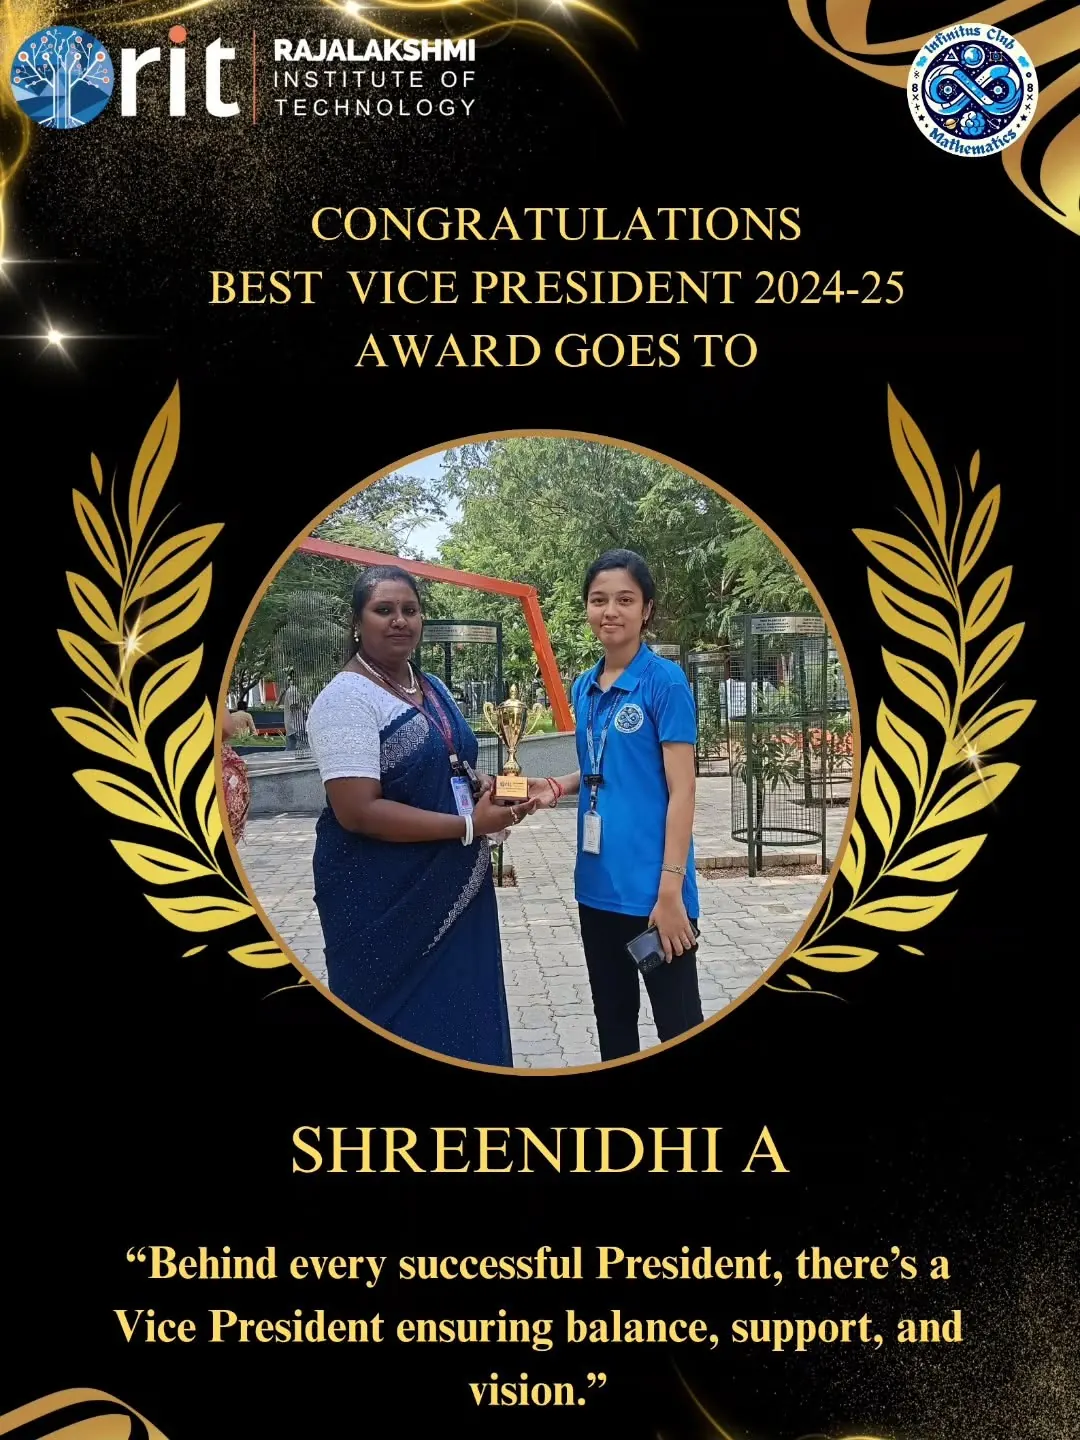
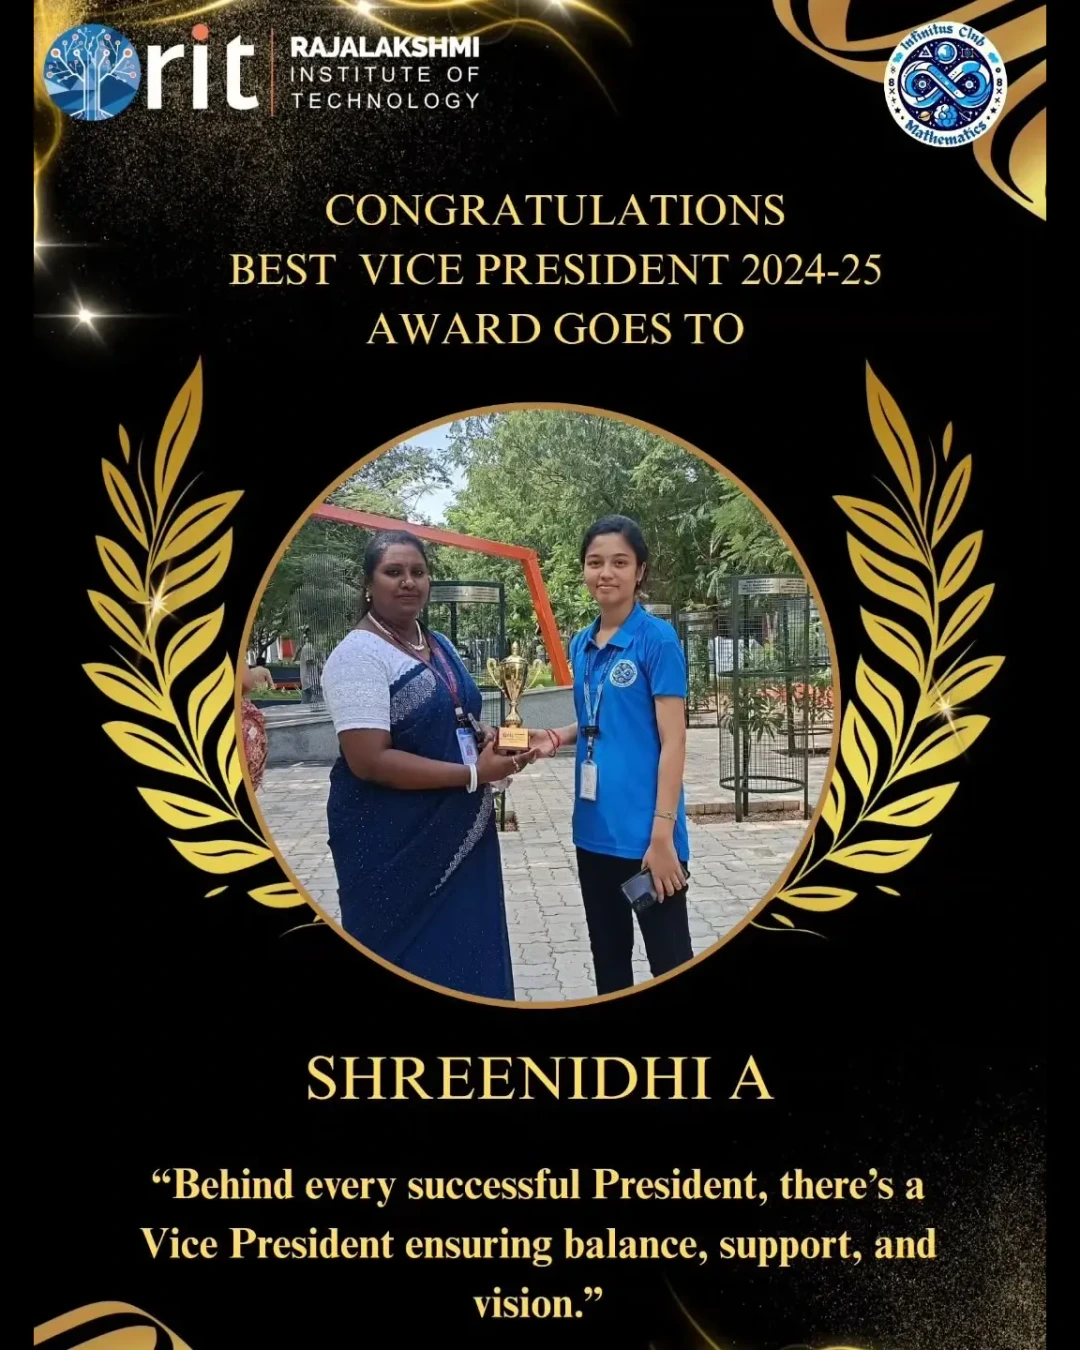
feat(gallery): perfectly frame posters, remove overlapping badges, and expand historical archive to 12 posts

diff --git a/lib/instagram.js b/lib/instagram.js
@@ -1,8 +1,8 @@
 /**
  * Curated Instagram posts for the "From Instagram" feed on the website.
  * Self-hosted, optimized assets matching @infinitus_club.rit posts.
- * Phase A: Curated static feed (no tracking scripts, no iframes, fast & private).
- * Phase B: Optional server-side Graph API fallback (documented in docs/INSTAGRAM.md).
+ * Spanning 2023–2026 across competitions, flagship summits, workshops, honors, and guest lectures.
+ * Every image is normalized to exact 4:5 aspect ratio (1080×1350 or 864×1080) for flawless frame alignment.
  */
 
 export const INSTAGRAM_POSTS = [
@@ -10,7 +10,7 @@ export const INSTAGRAM_POSTS = [
     id: 'post-shinka',
     image: '/gallery/shinka-recap.webp',
     width: 1080,
-    height: 1080,
+    height: 1350,
     caption: 'SHINKA — Strikers 2026: Strategy, speed, and analytical intuition pushed to the limits. A celebration of competitive mathematical problem solving.',
     date: 'Aug 2026',
     permalink: 'https://www.instagram.com/p/Dba4vhGzc9k/',
@@ -40,30 +40,90 @@ export const INSTAGRAM_POSTS = [
     id: 'post-inauguration',
     image: '/gallery/inauguration.webp',
     width: 1080,
-    height: 1349,
+    height: 1350,
     caption: 'Official Club Inauguration Ceremony — Welcoming mathematics enthusiasts, faculty coordinators, and new student leaders for the academic year.',
     date: 'Aug 2025',
     permalink: 'https://www.instagram.com/p/DM0NtN8z3fx/',
     tag: 'Milestone',
   },
   {
-    id: 'post-mathspire',
-    image: '/gallery/mathspire-13.webp',
+    id: 'post-mathspire-valedictory',
+    image: '/gallery/mathspire-01.webp',
     width: 1080,
-    height: 1266,
-    caption: "Mathspire — Expilog '25: Mind Over Math, Rapid Fire rounds, Spot the Error, and Thought Crafting challenges.",
+    height: 1350,
+    caption: "Mathspire Expilog '25 Valedictory & Awards — Honoring student problem-solvers across Mind Over Math, Rapid Fire, and Spot the Error rounds.",
     date: 'Jul 2025',
     permalink: 'https://www.instagram.com/p/DM0NtN8z3fx/',
-    tag: 'Flagship Event',
+    tag: 'Awards & Honors',
   },
   {
     id: 'post-best-vp',
     image: '/gallery/best-vp.webp',
     width: 1080,
-    height: 1440,
+    height: 1350,
     caption: 'Best Vice President Recognition 2024–25 awarded to Shreenidhi A for outstanding leadership and event coordination across INFINITUS.',
     date: 'Aug 2025',
     permalink: 'https://www.instagram.com/p/DFc2oQUTgtn/',
     tag: 'Club Honours',
+  },
+  {
+    id: 'post-spot-error',
+    image: '/gallery/mathspire-03.webp',
+    width: 1080,
+    height: 1350,
+    caption: "Spot the Error Stage Challenge at Mathspire '25 — Teams dissected nuanced mathematical proofs and identified hidden logical fallacies under timed pressure.",
+    date: 'Jul 2025',
+    permalink: 'https://www.instagram.com/p/DM0NtN8z3fx/',
+    tag: 'Challenge',
+  },
+  {
+    id: 'post-patriotism',
+    image: '/gallery/pop-patriotism.webp',
+    width: 1080,
+    height: 1350,
+    caption: 'Pop for Patriotism — Celebrating Independence Day with rapid-fire national trivia, historical mathematics puzzles, and interactive challenges.',
+    date: 'Aug 2025',
+    permalink: 'https://www.instagram.com/infinitus_club.rit/',
+    tag: 'Celebration',
+  },
+  {
+    id: 'post-faculty-review',
+    image: '/gallery/mathspire-06.webp',
+    width: 1080,
+    height: 1350,
+    caption: 'Faculty Coordinators & Student Executive Council — Mentorship and strategic vision driving academic excellence and mathematical passion at RIT.',
+    date: 'Jul 2025',
+    permalink: 'https://www.instagram.com/infinitus_club.rit/',
+    tag: 'Council & Faculty',
+  },
+  {
+    id: 'post-infinity-quest',
+    image: '/events/infinity-quest.webp',
+    width: 864,
+    height: 1080,
+    caption: "Infinity Quest '24 — Intra-college mathematical symposium featuring algorithmic pattern decoding, rapid calculations, and problem-solving arenas.",
+    date: 'Dec 2024',
+    permalink: 'https://www.instagram.com/infinitus_club.rit/',
+    tag: 'Flagship Event',
+  },
+  {
+    id: 'post-guest-lecture',
+    image: '/events/guest-lecture.webp',
+    width: 864,
+    height: 1080,
+    caption: 'Expert Guest Lecture on Real-World Mathematical Modeling — Faculty from SSN College of Engineering shared real-world applications of differential equations.',
+    date: 'Sep 2024',
+    permalink: 'https://www.instagram.com/infinitus_club.rit/',
+    tag: 'Guest Lecture',
+  },
+  {
+    id: 'post-math-day',
+    image: '/gallery/math-day-2023.webp',
+    width: 1080,
+    height: 1350,
+    caption: 'National Mathematics Day — Commemorating Srinivasa Ramanujan’s birth anniversary with mathematical rangoli exhibitions and symposium presentations.',
+    date: 'Dec 2023',
+    permalink: 'https://www.instagram.com/infinitus_club.rit/',
+    tag: 'National Day',
   },
 ];

diff --git a/components/sections/home/HomeSections.jsx b/components/sections/home/HomeSections.jsx
@@ -360,7 +360,7 @@ export function HomeInstagram() {
 
         <div className="mt-10 grid grid-cols-1 gap-6 sm:grid-cols-2 lg:grid-cols-3 sm:gap-7">
           {INSTAGRAM_POSTS.map((post, idx) => (
-            <Reveal key={post.id} delay={idx * 0.06}>
+            <Reveal key={post.id} delay={idx * 0.04}>
               <a
                 href={post.permalink}
                 target="_blank"
@@ -368,37 +368,44 @@ export function HomeInstagram() {
                 className="card card-hover group relative flex h-full flex-col overflow-hidden rounded-2xl border border-fg/15 bg-card transition-all duration-300 hover:-translate-y-1 hover:border-fg/30 hover:shadow-[0_20px_40px_-20px_rgb(var(--fg)/0.25)]"
                 aria-label={`View Instagram post: ${post.caption}`}
               >
-                <div className="relative aspect-[4/5] w-full overflow-hidden bg-bg-2/50 border-b border-fg/10 p-2 flex items-center justify-center">
-                  <div className="relative h-full w-full overflow-hidden rounded-xl bg-bg">
-                    <Image
-                      src={post.image}
-                      alt={post.caption}
-                      fill
-                      sizes="(min-width: 1024px) 33vw, (min-width: 640px) 50vw, 100vw"
-                      className="object-contain transition-transform duration-700 ease-out group-hover:scale-105"
-                    />
+                {/* Clean Top Bar: Handle, Infinity Icon, and Tag Chip */}
+                <div className="flex items-center justify-between px-4 py-2.5 border-b border-fg/10 bg-bg-2/40">
+                  <div className="flex items-center gap-2 min-w-0">
+                    <span className="flex h-5 w-5 shrink-0 items-center justify-center rounded-full bg-accent/15 text-accent text-[11px] font-mono font-bold">
+                      ∞
+                    </span>
+                    <span className="font-mono text-xs font-medium text-fg/80 truncate">
+                      @infinitus_club.rit
+                    </span>
                   </div>
                   {post.tag && (
-                    <span className="chip absolute left-4 top-4 border-sunset/40 bg-bg/95 backdrop-blur-sm text-sunset text-xs shadow-sm font-medium">
+                    <span className="chip text-[10px] sm:text-[11px] py-0.5 px-2 border-sunset/40 text-sunset font-medium shrink-0">
                       {post.tag}
                     </span>
                   )}
-                  <span
-                    aria-hidden="true"
-                    className="absolute right-4 top-4 flex h-8 w-8 items-center justify-center rounded-full bg-bg/95 backdrop-blur-sm text-fg shadow-sm transition-transform duration-300 group-hover:scale-110"
-                  >
-                    ↗
-                  </span>
                 </div>
 
-                <div className="flex flex-1 flex-col justify-between p-5">
+                {/* Poster Frame: 100% unobstructed edge-to-edge 4:5 frame */}
+                <div className="relative aspect-[4/5] w-full overflow-hidden bg-bg-2/20">
+                  <Image
+                    src={post.image}
+                    alt={post.caption}
+                    fill
+                    sizes="(min-width: 1024px) 33vw, (min-width: 640px) 50vw, 100vw"
+                    className="object-cover object-top transition-transform duration-700 ease-out group-hover:scale-105"
+                  />
+                  <div className="pointer-events-none absolute inset-0 bg-gradient-to-t from-black/40 via-transparent to-transparent opacity-0 transition-opacity duration-300 group-hover:opacity-100" />
+                </div>
+
+                {/* Caption & Metadata Footer */}
+                <div className="flex flex-1 flex-col justify-between p-4 sm:p-5">
                   <p className="line-clamp-3 text-xs sm:text-sm leading-relaxed text-fg/90 font-sans">
                     {post.caption}
                   </p>
                   <div className="mt-4 flex items-center justify-between border-t border-fg/10 pt-3 text-xs">
                     <span className="font-mono text-muted">{post.date}</span>
-                    <span className="font-mono font-medium text-accent flex items-center gap-1 group-hover:underline">
-                      View post <span aria-hidden="true">→</span>
+                    <span className="font-mono font-medium text-accent flex items-center gap-1 group-hover:translate-x-0.5 transition-transform">
+                      View post <span aria-hidden="true">↗</span>
                     </span>
                   </div>
                 </div>

diff --git a/components/ui/EventCard.jsx b/components/ui/EventCard.jsx
@@ -41,36 +41,32 @@ export default function EventCard({ event }) {
 
   return (
     <article className="card card-hover group relative flex h-full flex-col transition-[transform,border-color,box-shadow] duration-500 ease-out hover:-translate-y-1.5 hover:shadow-[0_24px_48px_-24px_rgb(var(--fg)/0.35)]">
-      <div className="relative aspect-[4/5] overflow-hidden border-b border-fg/15 bg-bg-2/60 p-2 flex items-center justify-center">
-        <div className="relative h-full w-full overflow-hidden rounded-lg">
-          <EventPoster
-            event={event}
-            sizes="(min-width: 1536px) 25vw, (min-width: 1024px) 33vw, (min-width: 640px) 50vw, 100vw"
-            fit="contain"
-            className="h-full w-full transition-transform duration-700 ease-out group-hover:scale-[1.03]"
-          />
-        </div>
-        <span className="chip absolute left-3 top-3 bg-bg/95 backdrop-blur-sm text-fg shadow-sm">
-          {formatEventDate(event.eventDate, event.endDate)}
-        </span>
-        {isUpcoming && (
-          <span className="chip absolute right-3 top-3 border-gold/40 bg-bg/95 backdrop-blur-sm text-gold shadow-sm">
-            Upcoming
-          </span>
-        )}
-        <span
-          aria-hidden="true"
-          className="absolute bottom-3 right-3 flex h-9 w-9 translate-y-3 items-center justify-center rounded-full bg-bg/95 backdrop-blur-sm text-fg opacity-0 shadow-sm transition-all duration-500 ease-out group-hover:translate-y-0 group-hover:opacity-100"
-        >
-          →
-        </span>
+      <div className="relative aspect-[4/5] w-full overflow-hidden border-b border-fg/15 bg-bg-2/40">
+        <EventPoster
+          event={event}
+          sizes="(min-width: 1536px) 25vw, (min-width: 1024px) 33vw, (min-width: 640px) 50vw, 100vw"
+          fit="cover"
+          className="h-full w-full object-cover object-top transition-transform duration-700 ease-out group-hover:scale-105"
+        />
+        <div className="pointer-events-none absolute inset-0 bg-gradient-to-t from-black/50 via-transparent to-transparent opacity-0 transition-opacity duration-300 group-hover:opacity-100" />
       </div>
 
       <div className="flex flex-1 flex-col p-5 sm:p-6">
-        {event.eventType && (
-          <p className="font-mono text-xs text-accent">{event.eventType}</p>
-        )}
-        <h3 className="mt-2 font-heading text-lg font-semibold leading-snug text-fg">
+        <div className="flex items-center justify-between gap-2 mb-2">
+          <span className="font-mono text-xs text-accent font-medium">
+            {formatEventDate(event.eventDate, event.endDate)}
+          </span>
+          {isUpcoming ? (
+            <span className="chip border-sunset/40 text-sunset text-[11px] font-semibold py-0.5 px-2">
+              Upcoming
+            </span>
+          ) : event.eventType ? (
+            <span className="chip text-[11px] py-0.5 px-2 text-muted">
+              {event.eventType}
+            </span>
+          ) : null}
+        </div>
+        <h3 className="mt-1 font-heading text-lg font-semibold leading-snug text-fg">
           <Link
             href={eventHref(event)}
             className="after:absolute after:inset-0 after:content-[''] focus-visible:outline-none focus-visible:after:rounded-md focus-visible:after:ring-2 focus-visible:after:ring-accent"

diff --git a/components/sections/EventsSection.jsx b/components/sections/EventsSection.jsx
@@ -7,22 +7,21 @@ import EventsBrowser from '@/components/ui/EventsBrowser';
 
 export function FeaturedEvent({ event }) {
   return (
-    <article className="card group grid overflow-hidden md:grid-cols-[minmax(0,0.85fr)_minmax(0,1.15fr)] lg:grid-cols-[minmax(0,0.75fr)_minmax(0,1.25fr)] xl:grid-cols-[minmax(0,0.7fr)_minmax(0,1.3fr)] items-stretch">
+    <article className="card group grid overflow-hidden md:grid-cols-[minmax(0,0.85fr)_minmax(0,1.15fr)] lg:grid-cols-[minmax(0,0.8fr)_minmax(0,1.2fr)] items-stretch">
       <Link
         href={eventHref(event)}
         tabIndex={-1}
         aria-hidden="true"
-        className="relative flex items-center justify-center overflow-hidden border-b border-fg/15 bg-bg-2/70 p-3 sm:p-5 md:border-b-0 md:border-r min-h-[360px] sm:min-h-[440px] md:min-h-full"
+        className="relative block aspect-[4/5] w-full overflow-hidden border-b border-fg/15 bg-bg-2/40 md:border-b-0 md:border-r"
       >
-        <div className="relative aspect-[4/5] w-full max-w-[420px] overflow-hidden rounded-lg border border-fg/10 shadow-sm bg-bg">
-          <EventPoster
-            event={event}
-            sizes="(min-width: 1280px) 33vw, (min-width: 768px) 40vw, 100vw"
-            fit="contain"
-            priority
-            className="h-full w-full transition-transform duration-700 ease-out group-hover:scale-[1.02]"
-          />
-        </div>
+        <EventPoster
+          event={event}
+          sizes="(min-width: 1280px) 35vw, (min-width: 768px) 45vw, 100vw"
+          fit="cover"
+          priority
+          className="h-full w-full object-cover object-top transition-transform duration-700 ease-out group-hover:scale-105"
+        />
+        <div className="pointer-events-none absolute inset-0 bg-gradient-to-t from-black/40 via-transparent to-transparent opacity-0 transition-opacity duration-300 group-hover:opacity-100" />
       </Link>
       <div className="flex flex-col justify-center p-6 sm:p-8 lg:p-10">
         <div className="flex flex-wrap gap-2">
